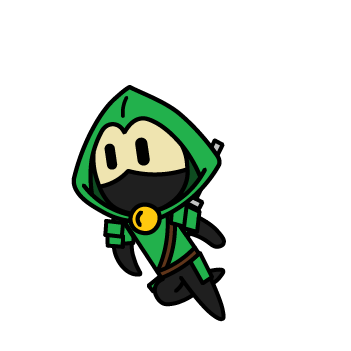
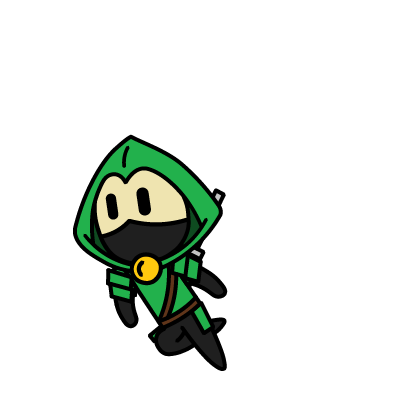
Added animation for wallclimb shuriken

Changed region(s): [[0.1709, 0.2279, 0.6553, 0.9402]]

diff --git a/Assets/Scripts/Player/PlayerController.cs b/Assets/Scripts/Player/PlayerController.cs
@@ -894,11 +894,10 @@ public class PlayerController : MonoBehaviour
             playerAnim.SetBool("isAgainstWall", false);
         }
 
-        if (fireReleased && CanAttack() && numShurikens > 0 && !isDashing && !isWallClimbing && !isWallJumping) {
+        if (fireReleased && CanAttack() && numShurikens > 0 && !isDashing && !isWallJumping) {
             isAttacking = true;
             playerAnim.SetBool("isThrowing", true);
             lastAttack = Time.time;
-            //currChargeTime = 0f;
             numShurikens -= 1;
             ScoreManager.singleton.UpdateShurikenNum(numShurikens);
             Invoke("SetIsThrowingFalse", 0.5f);
